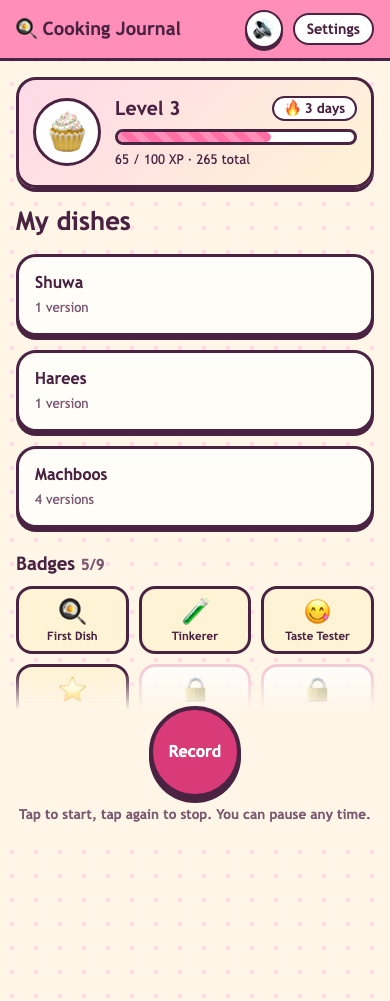
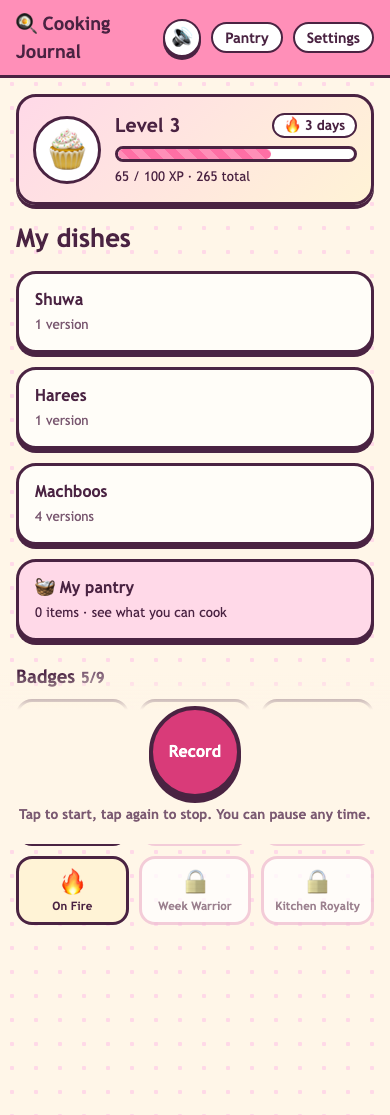
Add pantry and 'What can I cook?' (voice/typed pantry, saved dish matching, Groq ideas)

Changed region(s): [[0.0, 0.0, 1.0, 0.8362]]

diff --git a/app.js b/app.js
@@ -6,6 +6,7 @@ import * as game from './js/game.js';
 import * as sound from './js/sound.js';
 import {celebrate} from './js/fx.js';
 import {progressChart} from './js/chart.js';
+import * as pantry from './js/pantry.js';
 
 const app=$('#app');
 let recorder=null;       // active Recorder
@@ -65,6 +66,7 @@ async function home(){
   app.innerHTML=hero()+`<h1>My dishes</h1>`+(dishes.length?dishes.map(d=>`
     <a class="card" href="#/dish/${d.id}"><strong>${esc(d.name)}</strong><br><small>${d.versionCount} version${d.versionCount>1?'s':''}</small></a>`).join('')
     :`<p class="empty">No dishes yet. Tap Record and describe what you cooked.</p>`)
+    +`<a class="tile pantry-link" href="#/pantry"><strong>🧺 My pantry</strong><br><small>${pantry.load().length} item${pantry.load().length===1?'':'s'} · see what you can cook</small></a>`
     +badgesHTML()
     +`<div class="dock">${recBox('rec','Record','Tap to start, tap again to stop. You can pause any time.')}</div>`;
   if(!groq.getKey())showError(keyMissingMsg);
@@ -209,6 +211,57 @@ function afterReview(){
   };
 }
 
+
+/* ---------- pantry ---------- */
+let cook=null; // last "what can I cook" result, kept while on the pantry page
+const chips=()=>pantry.load().map(p=>`<li class="pchip"><span>${esc(p)}</span><button class="x" type="button" data-name="${esc(p)}" aria-label="Remove ${esc(p)}">✕</button></li>`).join('');
+const missHTML=m=>m.length?`<p class="miss">Missing: ${m.map(esc).join(', ')}</p>`:`<p class="miss ok">You have everything! 🎉</p>`;
+function cookHTML(){
+  if(!cook)return '';
+  const saved=cook.saved.map(f=>`<a class="card fit" href="#/version/${f.version.id}"><strong>${esc(f.dish.name)}</strong> <small>v${f.version.n}${f.version.after?` · <span class="stars">${stars(f.version.after.rating)}</span>`:' · not rated'}</small>${missHTML(f.missing)}</a>`).join('');
+  const ideas=cook.ideas.map(i=>`<div class="card idea"><strong>💡 ${esc(i.name)}</strong><br><small>${esc(i.why)}</small>${missHTML(i.missing)}</div>`).join('');
+  return `<h2>From your journal</h2>${saved||'<p class="empty">No saved dish fits yet.</p>'}<h2>New ideas</h2>${cook.err?`<p class="empty">${esc(cook.err)}</p>`:ideas||'<p class="empty">No ideas came back. Try again.</p>'}`;
+}
+async function pantryView(){
+  app.innerHTML=`<h1>My pantry 🧺</h1>
+  <form id="padd" class="padd"><input id="pitem" aria-label="Add an ingredient" placeholder="Type an ingredient…" autocomplete="off"><button class="btn small" type="submit">Add</button></form>
+  <ul id="chips" class="chips" aria-label="Pantry items"></ul><p id="pempty" class="empty" hidden>Your pantry is empty. Type or record what you have.</p>
+  <button class="btn big" id="cook" type="button">🍲 What can I cook?</button>
+  <div id="cook-out" aria-live="polite"></div>
+  <div class="dock">${recBox('rec','Record','Tap and say what you have, e.g. "rice, onions, chicken"')}</div>`;
+  const render=()=>{$('#chips').innerHTML=chips();$('#pempty').hidden=pantry.load().length>0;$('#cook').disabled=!pantry.load().length};
+  render();$('#cook-out').innerHTML=cookHTML();
+  $('#padd').onsubmit=e=>{e.preventDefault();const v=$('#pitem').value;$('#pitem').value='';
+    // allow "rice, onion" typed in one go
+    if(pantry.add(v.split(/[,،\n]/)).length)sound.play('tap');render()};
+  $('#chips').onclick=e=>{const b=e.target.closest('.x');if(!b)return;pantry.remove(b.dataset.name);sound.play('tap');render()};
+  $('#cook').onclick=async()=>{
+    clearError();const list=pantry.load(),out=$('#cook-out');
+    out.innerHTML='<div class="busy" role="status">Looking through your journal…</div>';
+    const dishes=await db.listDishes();
+    const saved=pantry.fits(await Promise.all(dishes.map(async d=>({dish:d,versions:await db.listVersions(d.id)}))),list);
+    cook={saved,ideas:[]};out.innerHTML=cookHTML()+'<div class="busy" role="status">Asking the chef for new ideas…</div>';
+    try{
+      if(!groq.getKey())throw new Error('NO_KEY');
+      cook.ideas=await groq.suggestIdeas(list,dishes.map(d=>d.name));
+      sound.play('success');
+    }catch(e){sound.play('error');cook.err=e.message==='NO_KEY'?'Add your Groq API key in Settings to get new ideas.':e.message}
+    if(location.hash==='#/pantry')out.innerHTML=cookHTML();
+  };
+  $('#rec').onclick=ev=>toggleRecord(ev.currentTarget,async parts=>{
+    busy('Transcribing…');
+    try{
+      const transcript=await transcribing(parts);
+      if(!transcript)throw new Error('No speech was detected. Try recording again.');
+      busy('Reading your list…');
+      const items=await groq.extractPantry(transcript);
+      const added=pantry.add(items);
+      sound.play('success');await route(true);
+      if(!added.length)showError('Nothing new heard. Try again?');
+    }catch(e){sound.play('error');await route(true);fail(e)}
+  });
+}
+
 function settings(){
   app.innerHTML=`<h1>Settings</h1>
   <label for="key">Groq API key</label>
@@ -227,7 +280,7 @@ function syncMute(){
 }
 $('#mute').onclick=()=>{sound.setMuted(!sound.isMuted());syncMute();sound.play('tap')};
 syncMute();
-document.addEventListener('click',e=>{if(e.target.closest('.btn,.card'))sound.play('tap')});
+document.addEventListener('click',e=>{if(e.target.closest('.btn,.card,.tile'))sound.play('tap')});
 
 /* ---------- router ---------- */
 async function route(keep){
@@ -238,6 +291,7 @@ async function route(keep){
   try{
     if(page==='review')review();
     else if(page==='settings')settings();
+    else if(page==='pantry')await pantryView();
     else if(page==='dish')await dish(arg);
     else if(page==='version')afterDraft&&afterDraft.versionId===+arg?afterReview():await version(arg);
     else await home();

diff --git a/tests/pantry.spec.js b/tests/pantry.spec.js
@@ -1,0 +1,91 @@
+const {test,expect}=require('@playwright/test');
+
+async function mock(page,log){
+  await page.route('**/audio/transcriptions',r=>r.fulfill({json:{text:'I have rice, onions and some saffron'}}));
+  await page.route('**/chat/completions',r=>{
+    const b=r.request().postDataJSON();log.chat.push(b);
+    const sys=b.messages[0].content;
+    const out=/"items"/.test(sys)?{items:['rice','Onions','saffron']}
+      :/"ideas"/.test(sys)?{ideas:[{name:'Saffron rice',why:'Simple and fragrant.',missing:['butter']},{name:'Onion soup',why:'Cozy.',missing:['stock','bread']}]}
+      :{dish:'x',ingredients:[],steps:[]};
+    r.fulfill({json:{choices:[{message:{content:JSON.stringify(out)}}]}});
+  });
+}
+const clean=page=>page.addInitScript(()=>{if(!sessionStorage.seeded){localStorage.clear();sessionStorage.seeded=1;localStorage.setItem('groq_api_key','gsk_test')}});
+const seed=page=>page.evaluate(async()=>{
+  const db=await import('/js/db.js'),b=()=>new Blob(['x'],{type:'audio/webm'});
+  const mk=async(name,ings,r)=>{const v=await db.saveVersion({name,ingredients:ings.map(name=>({name,amount:'1',unit:''})),steps:['Cook'],transcript:'t',parts:[b()]});
+    if(r)await db.saveAfter(v.id,{rating:r,notes:'n',transcript:'t',audio:b(),parts:[b()]});return v};
+  await mk('Machboos',['rice','onion','chicken','bzar'],3);   // older, lower rated
+  await mk('Machboos',['rice','onion','saffron'],5);          // best version: fits
+  await mk('Harees',['wheat','meat','ghee','cinnamon','salt'],4); // too many missing
+  await mk('Rice and onion',['Red Onions','rice','water'],0); // plural/partial match, staple ignored
+});
+
+test('type, dedupe, remove, persist',async({page})=>{
+  await clean(page);await mock(page,{chat:[]});await page.goto('/#/pantry');
+  await expect(page.locator('#cook')).toBeDisabled();
+  await page.fill('#pitem','Rice, onions');await page.press('#pitem','Enter');
+  await page.fill('#pitem','rice');await page.press('#pitem','Enter'); // duplicate
+  await expect(page.locator('.pchip')).toHaveCount(2);
+  await page.reload();
+  await expect(page.locator('.pchip')).toHaveCount(2);
+  await page.click('.pchip >> nth=0 >> .x');
+  await expect(page.locator('.pchip')).toHaveCount(1);
+  await page.reload();
+  await expect(page.locator('.pchip')).toHaveCount(1);
+});
+
+test('voice adds items (deduped) via Whisper + LLM',async({page})=>{
+  await clean(page);const log={chat:[]};await mock(page,log);await page.goto('/#/pantry');
+  await page.fill('#pitem','rice');await page.press('#pitem','Enter');
+  await page.click('#rec');await expect(page.locator('#rec')).toHaveText('Stop');
+  await page.waitForTimeout(600);await page.click('#rec');
+  await expect(page.locator('.pchip')).toHaveCount(3);
+  await expect(page.locator('#chips')).toContainText('Onions');
+  expect(await page.evaluate(()=>JSON.parse(localStorage.cj_pantry))).toEqual(['rice','Onions','saffron']);
+});
+
+test('what can I cook: best version first, missing shown, then LLM ideas',async({page})=>{
+  const log={chat:[]};
+  await clean(page);await mock(page,log);await page.goto('/');await seed(page);
+  await page.evaluate(()=>localStorage.setItem('cj_pantry',JSON.stringify(['rice','onions','saffron','chicken'])));
+  await page.goto('/#/pantry');await page.click('#cook');
+  const fit=page.locator('.card.fit');
+  await expect(fit).toHaveCount(2);
+  await expect(fit.nth(0)).toContainText('Machboos');
+  await expect(fit.nth(0)).toContainText('v2');          // best-rated version, not v1
+  await expect(fit.nth(0)).toContainText('You have everything');
+  await expect(fit.nth(1)).toContainText('Rice and onion'); // Red Onions ~ onions, water ignored
+  await expect(page.locator('.card.fit', {hasText:'Harees'})).toHaveCount(0); // 4 missing
+  await expect(page.locator('.card.idea')).toHaveCount(2);
+  await expect(page.locator('.card.idea').nth(1)).toContainText('stock, bread');
+  const req=log.chat.at(-1);
+  expect(req.messages[1].content).toContain('Machboos'); // known dishes passed to the LLM
+  expect(req.messages[1].content).toContain('saffron');
+});
+
+test('missing ingredients shown for near-fit dish; ideas error keeps saved results',async({page})=>{
+  await clean(page);await page.route('**/chat/completions',r=>r.fulfill({status:429,json:{error:{message:'slow down'}}}));
+  await page.goto('/');await seed(page);
+  await page.evaluate(()=>localStorage.setItem('cj_pantry',JSON.stringify(['rice','onion'])));
+  await page.goto('/#/pantry');await page.click('#cook');
+  await expect(page.locator('.card.fit',{hasText:'Machboos'})).toContainText('Missing: saffron'); // v2 needs saffron
+  await expect(page.locator('#cook-out')).toContainText('rate limit');
+});
+
+test('home links to pantry; screenshots',async({page},info)=>{
+  await clean(page);await mock(page,{chat:[]});await page.goto('/');await seed(page);
+  await page.evaluate(()=>localStorage.setItem('cj_pantry',JSON.stringify(['rice','onions','saffron','chicken','tomatoes','lemon'])));
+  await page.reload();
+  await page.click('.pantry-link');
+  await expect(page).toHaveURL(/#\/pantry/);
+  await expect(page.locator('#chips .pchip')).toHaveCount(6);
+  if(info.project.name!=='mobile')return;
+  await page.screenshot({path:'screenshots/pantry.png'});
+  await page.click('#cook');
+  await expect(page.locator('.card.idea')).toHaveCount(2);
+  await page.screenshot({path:'screenshots/pantry-results.png',fullPage:true});
+  await page.click('#rec');await page.waitForTimeout(1200);
+  await page.screenshot({path:'screenshots/pantry-recording.png'});
+});

diff --git a/js/pantry.js b/js/pantry.js
@@ -1,0 +1,43 @@
+const KEY='cj_pantry';
+const STAPLES=new Set(['water','salt']); // assumed always available
+export const load=()=>{try{const a=JSON.parse(localStorage.getItem(KEY));return Array.isArray(a)?a:[]}catch{return []}};
+const save=a=>localStorage.setItem(KEY,JSON.stringify(a));
+export const norm=s=>String(s||'').toLowerCase().replace(/[^a-z0-9-ۿ ]+/g,' ').replace(/\s+/g,' ').trim();
+const stem=w=>w.length>3&&w.endsWith('ies')?w.slice(0,-3)+'y':w.length>3&&w.endsWith('es')&&/(o|ch|sh|x)es$/.test(w)?w.slice(0,-2):w.length>3&&w.endsWith('s')&&!w.endsWith('ss')?w.slice(0,-1):w;
+const words=s=>norm(s).split(' ').filter(Boolean).map(stem);
+/** Add names (deduped, case-insensitive). Returns the names actually added. */
+export function add(names){
+  const list=load(),added=[];
+  for(const n of names){
+    const t=String(n||'').trim().replace(/\s+/g,' ');
+    if(!t||list.some(x=>norm(x)===norm(t)))continue;
+    list.push(t);added.push(t);
+  }
+  save(list);return added;
+}
+export const remove=name=>save(load().filter(x=>x!==name));
+/** Does pantry item p cover ingredient i? Equal, or one's words are all inside the other's ("red onion" ~ "onion"). */
+export function covers(p,i){
+  const a=words(p),b=words(i);
+  if(!a.length||!b.length)return false;
+  return a.every(w=>b.includes(w))||b.every(w=>a.includes(w));
+}
+export const isStaple=i=>STAPLES.has(norm(i));
+export function missing(ingredientNames,pantry=load()){
+  return ingredientNames.filter(i=>i&&!isStaple(i)&&!pantry.some(p=>covers(p,i)));
+}
+/** Best version of a dish: highest rating, ties -> newest. Unrated versions rank below rated. */
+export function bestVersion(versions){
+  return versions.slice().sort((a,b)=>(b.after?.rating||0)-(a.after?.rating||0)||b.n-a.n)[0];
+}
+/** Saved dishes that fit: [{dish,version,missing}] sorted by fewest missing, then rating. maxMissing default 2. */
+export function fits(dishes,pantry=load(),maxMissing=2){
+  return dishes.map(({dish,versions})=>{
+    const version=bestVersion(versions);
+    if(!version)return null;
+    const names=version.ingredients.map(i=>i.name);
+    if(!names.length)return null;
+    return {dish,version,missing:missing(names,pantry)};
+  }).filter(x=>x&&x.missing.length<=maxMissing)
+    .sort((a,b)=>a.missing.length-b.missing.length||(b.version.after?.rating||0)-(a.version.after?.rating||0));
+}

diff --git a/js/groq.js b/js/groq.js
@@ -80,3 +80,14 @@ export async function extractRating(transcript){
   const rating=Math.min(5,Math.max(1,Math.round(Number(o.rating))||3));
   return {rating,notes:String(o.notes||'')};
 }
+
+export const PANTRY_PROMPT='The cook lists food items they have at home (spoken, may include chatter). Reply with JSON only: {"items":[string]}. One short singular-or-natural ingredient name per item, lowercase, no amounts. Ignore chatter and nonsense. Normalize Omani/Arabic spellings to: '+OMANI_VOCAB.join(', ')+'.';
+export async function extractPantry(transcript){
+  const o=await chatJSON(PANTRY_PROMPT,transcript);
+  return (Array.isArray(o.items)?o.items:[]).map(x=>String(x).trim()).filter(Boolean);
+}
+export const IDEAS_PROMPT='You suggest dishes someone can cook from what is in their pantry (Omani and Gulf home cooking is welcome, but any cuisine is fine). Water, salt and basic oil are always available. Suggest 4 realistic dishes that use mostly pantry items, each needing at most 3 extra ingredients. Do not suggest dishes from the "already known" list. Reply with JSON only: {"ideas":[{"name":string,"why":string (one short sentence),"missing":[string]}]}.';
+export async function suggestIdeas(pantry,known=[]){
+  const o=await chatJSON(IDEAS_PROMPT,JSON.stringify({pantry,alreadyKnown:known}));
+  return (Array.isArray(o.ideas)?o.ideas:[]).map(i=>({name:String(i.name||''),why:String(i.why||''),missing:(Array.isArray(i.missing)?i.missing:[]).map(String)})).filter(i=>i.name);
+}

diff --git a/styles.css b/styles.css
@@ -91,3 +91,14 @@ summary{font-weight:800;cursor:pointer}
 @keyframes fall{to{transform:translate(var(--dx),70vh) rotate(360deg);opacity:0}}
 @media(min-width:900px){main{padding-top:32px}}
 @media(prefers-reduced-motion:reduce){*{animation:none!important;transition:none!important}}
+
+.padd{display:grid;grid-template-columns:1fr auto;gap:8px}
+.chips{list-style:none;padding:0;margin:14px 0;display:flex;flex-wrap:wrap;gap:8px}
+.pchip{display:flex;align-items:center;gap:6px;background:var(--pink-l);border:3px solid var(--ink);border-radius:999px;padding:2px 4px 2px 14px;font-weight:700;box-shadow:0 3px 0 var(--ink)}
+.pchip .x{width:28px;height:28px;border-radius:50%;border-width:2px;padding:0;line-height:1}
+.btn.big{width:100%;font-size:1.2rem;padding:14px;margin:8px 0 4px}
+.btn:disabled{opacity:.5;cursor:default}
+.miss{margin:6px 0 0;color:var(--accent);font-weight:700;font-size:.92rem}.miss.ok{color:#1f7a45}
+.card.idea{background:#fff0f6}
+.pantry-link{background:var(--pink-l)}
+.tile{background:var(--pink-l);border:3px solid var(--ink);border-radius:var(--r);box-shadow:var(--sh);padding:14px 16px;margin-bottom:14px;display:block;color:inherit;text-decoration:none}.tile:active{transform:translateY(3px);box-shadow:0 1px 0 var(--ink)}

diff --git a/sw.js b/sw.js
@@ -1,5 +1,5 @@
-const CACHE='cj-shell-v2';
-const SHELL=['./','index.html','styles.css','app.js','js/db.js','js/groq.js','js/recorder.js','js/ui.js','js/game.js','js/sound.js','js/fx.js','js/chart.js','manifest.webmanifest','icons/icon-192.png','icons/icon-512.png'];
+const CACHE='cj-shell-v3';
+const SHELL=['./','index.html','styles.css','app.js','js/db.js','js/groq.js','js/recorder.js','js/ui.js','js/game.js','js/sound.js','js/fx.js','js/chart.js','js/pantry.js','manifest.webmanifest','icons/icon-192.png','icons/icon-512.png'];
 self.addEventListener('install',e=>{e.waitUntil(caches.open(CACHE).then(c=>c.addAll(SHELL)));self.skipWaiting()});
 self.addEventListener('activate',e=>{e.waitUntil(caches.keys().then(k=>Promise.all(k.filter(x=>x!==CACHE).map(x=>caches.delete(x)))).then(()=>self.clients.claim()))});
 self.addEventListener('fetch',e=>{

diff --git a/index.html b/index.html
@@ -13,7 +13,7 @@
 <body>
 <header class="top">
   <a href="#/" class="brand">🍳 Cooking Journal</a>
-  <span class="nav"><button id="mute" class="icon-btn" type="button" aria-pressed="false" aria-label="Mute sounds">🔊</button><a href="#/settings" class="link" id="nav-settings">Settings</a></span>
+  <span class="nav"><button id="mute" class="icon-btn" type="button" aria-pressed="false" aria-label="Mute sounds">🔊</button><a href="#/pantry" class="link" id="nav-pantry">Pantry</a><a href="#/settings" class="link" id="nav-settings">Settings</a></span>
 </header>
 <div id="error" class="banner error" role="alert" hidden></div>
 <main id="app"></main>

diff --git a/SUMMARY-C.md b/SUMMARY-C.md
@@ -1,0 +1,25 @@
+# Task C summary: "What can I cook?"
+
+## What changed
+- **Pantry page** (`#/pantry`, linked from header and home): add by typing (comma-separated ok, deduped) or by voice (existing recorder + Whisper, then LLM extracts item names). Tap ✕ to remove. Saved in localStorage (`cj_pantry`).
+- **"What can I cook?"**: first saved dishes that fit (best-rated version per dish, newest on ties; up to 2 missing ingredients; water/salt assumed; fuzzy match like "red onions" ~ "onion"), sorted by fewest missing then rating. Then 4 new ideas from the Groq LLM, skipping dishes already in the journal. Every result shows missing ingredients. If the LLM call fails, saved results still show with an error note.
+- Same pink-cream game style; reuses sounds, mute and the record dock/pause.
+- Files: `js/pantry.js` (new), `js/groq.js` (extractPantry, suggestIdeas), `app.js`, `styles.css`, `index.html`, `sw.js` (cache v3), `tests/pantry.spec.js`.
+
+## Tests
+`npx playwright test`: 33 passed, 1 skipped (Groq mocked).
+
+## Commit
+See `git log -1` on dev (not pushed).
+
+## Screenshots (390x844, checked by eye, 1 fix round)
+- screenshots/pantry.png
+- screenshots/pantry-results.png
+- screenshots/pantry-recording.png
+
+## Open issues
+- Not tested with real Groq. Idea quality and voice item parsing depend on the model.
+- Fit rule (max 2 missing) and staples list are fixed in code, not configurable.
+- Ideas are not saved; they disappear when you leave the page.
+- Full-page screenshot shows the fixed Record dock mid-page (capture artifact).
+- `BRIEF-C.md` left untracked.
